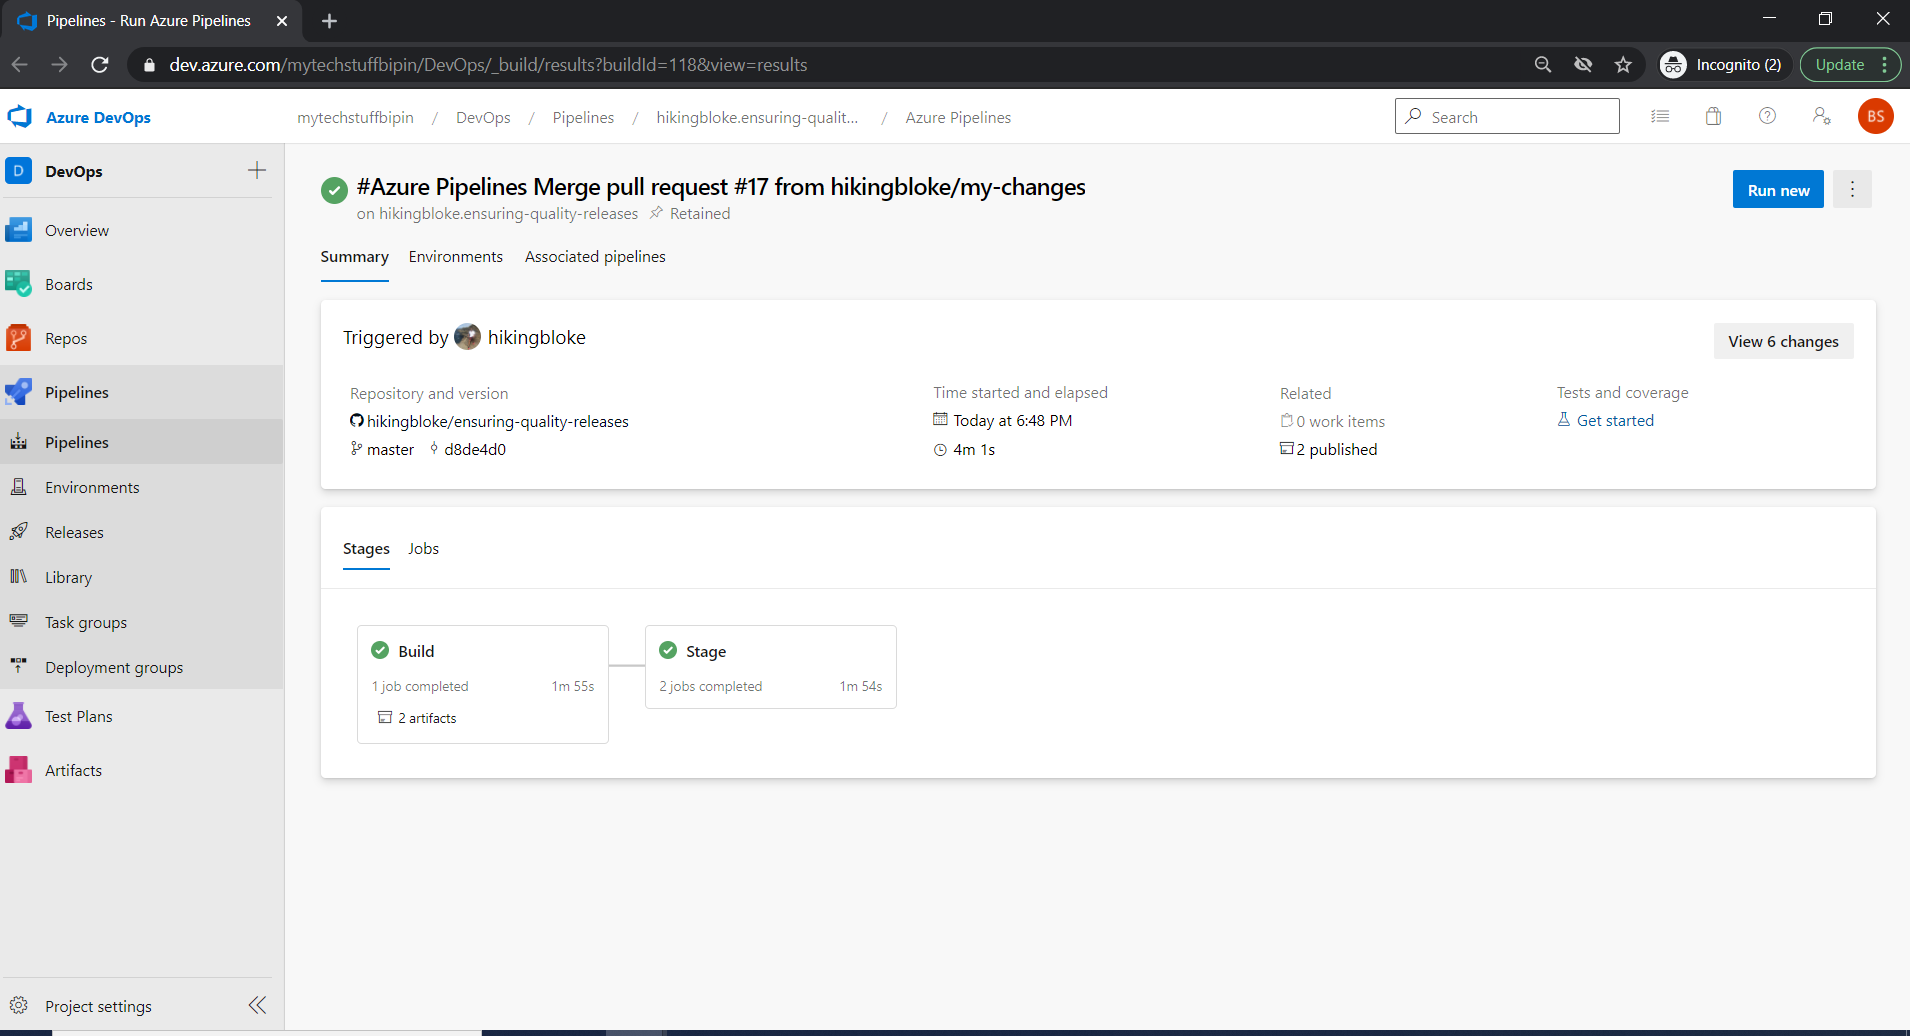
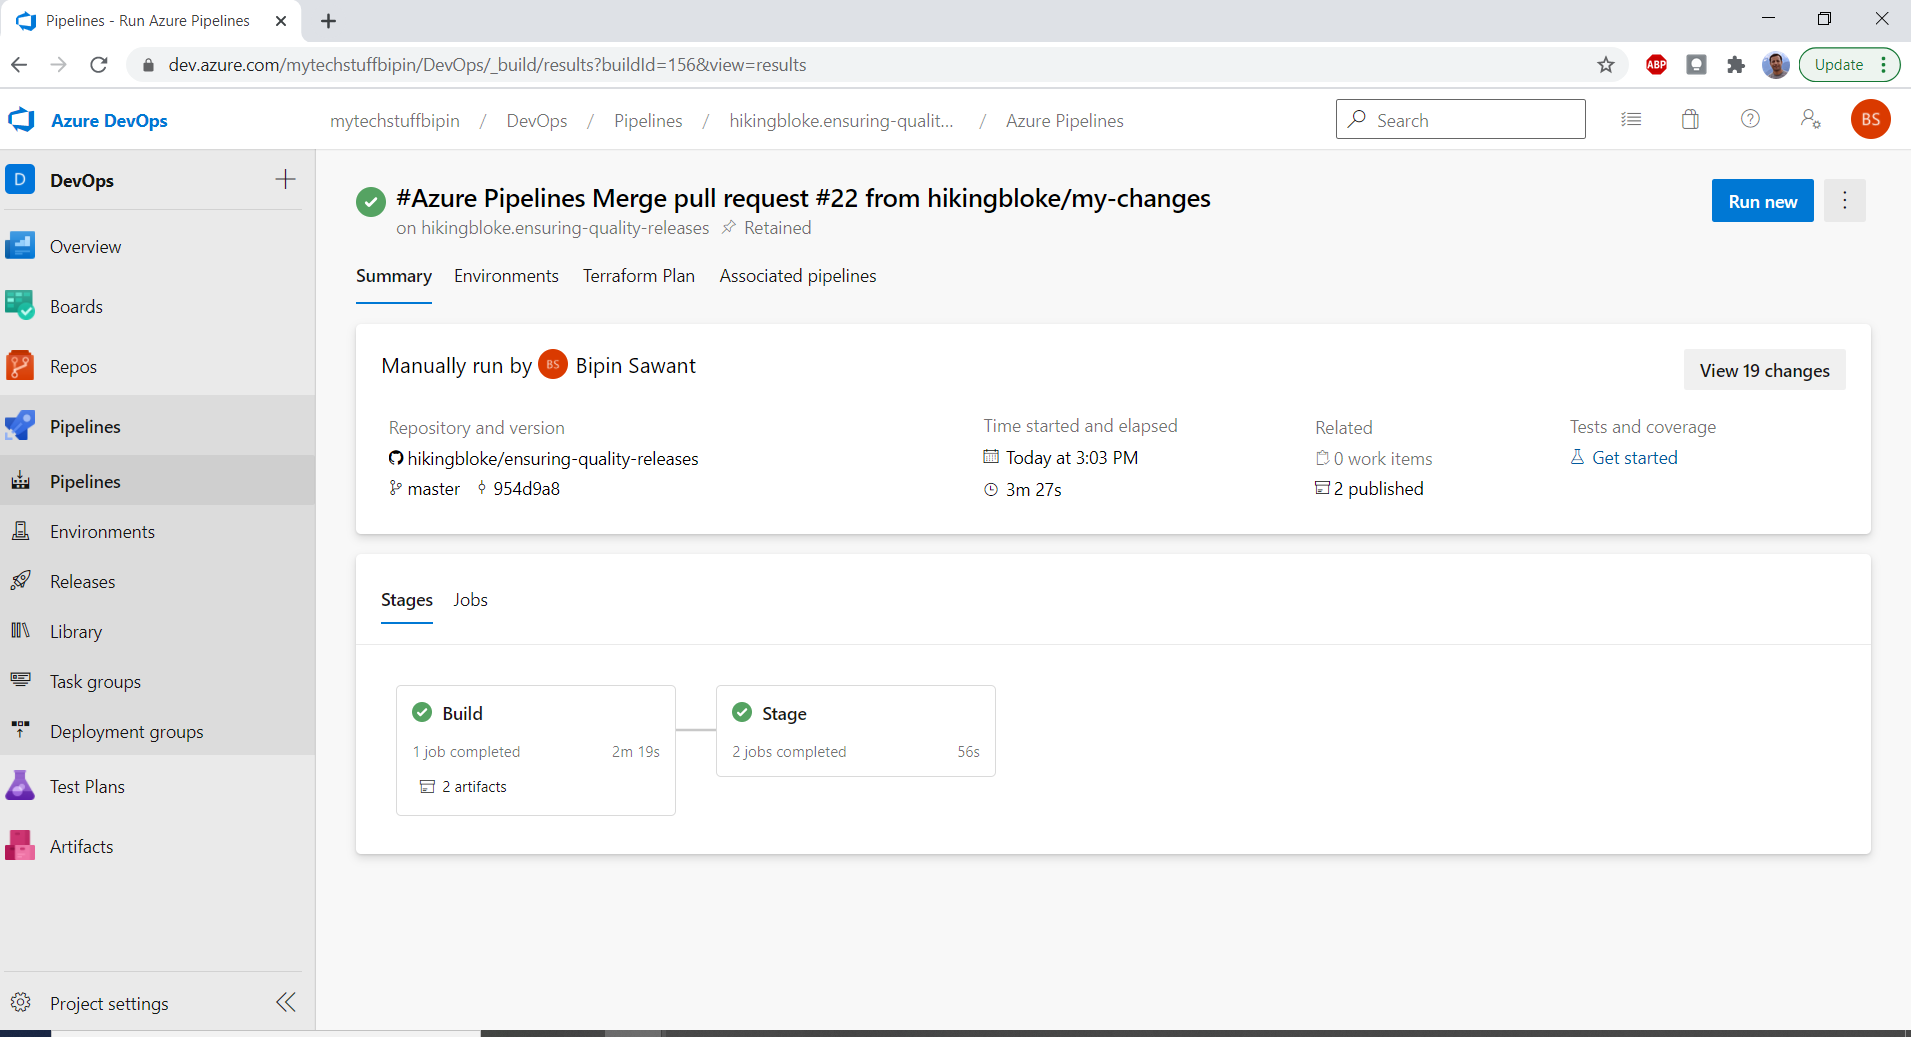
updating Azure pipeline in Readme and updating images

diff --git a/README.md b/README.md
@@ -64,7 +64,7 @@ https://github.com/hikingbloke/ensuring-quality-releases/tree/master/terraform/m
 ![screenshot - Terraform plan](./output_files/3_terraform_plan.png?raw=true)
 
 - Azure pipeline execution
-https://dev.azure.com/mytechstuffbipin/DevOps/_build/results?buildId=118&view=results
+https://dev.azure.com/mytechstuffbipin/DevOps/_build/results?buildId=156&view=results
 
 ![screenshot - Azure Pipeline Summary](./output_files/4_azure_pipeline-execution_1.png?raw=true)
 ![screenshot - Azure Pipeline Breakdown 1](./output_files/4_azure_pipeline-execution_2.png?raw=true)
